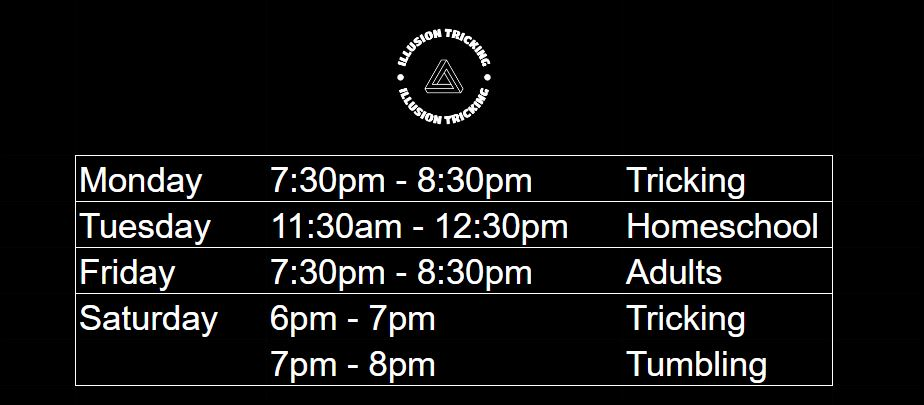
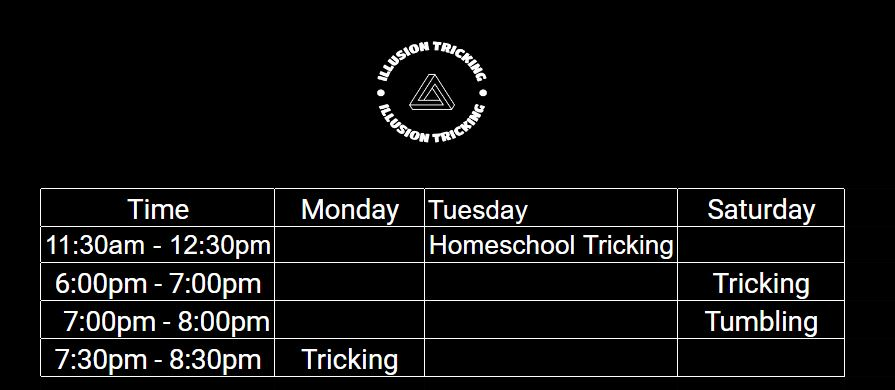
update classes and prices

Changed region(s): [[0.0302, 0.0615, 0.9352, 0.9846], [0.8749, 0.6462, 0.905, 0.6769]]

diff --git a/pages/classes.jsx b/pages/classes.jsx
@@ -8,9 +8,9 @@ const classes = () => {
         <div>
             <Hero 
             heading='Classes' 
-            message='In term 4 we will be introducing a tumbling class that runs after the tricking session on Saturday.' 
-            message1='The timetable for term 4 is below.'
-            message2='You can go to contact to enroll. $100 per term or $10 for a casual session'
+            message='The timetable for 2024 term 1 is below.' 
+            message1='Go to contact to enroll for a class. $125 for the term or $15 for casual sessions'
+            message2='We can also arrange private sessions for tricking, tumbling and acro. $60 per private'
             frame='https://www.google.com/maps/embed?pb=!1m18!1m12!1m3!1d3028.322179626751!2d175.27110941604028!3d-40.62277630767857!2m3!1f0!2f0!3f0!3m2!1i1024!2i768!4f13.1!3m3!1m2!1s0x6d40f354c424d59b%3A0xa56b19dc84d8400b!2s33%20Victoria%20Street%2C%20Levin%205510!5e0!3m2!1sen!2snz!4v1680124780575!5m2!1sen!2snz' 
             />
             <Class />
